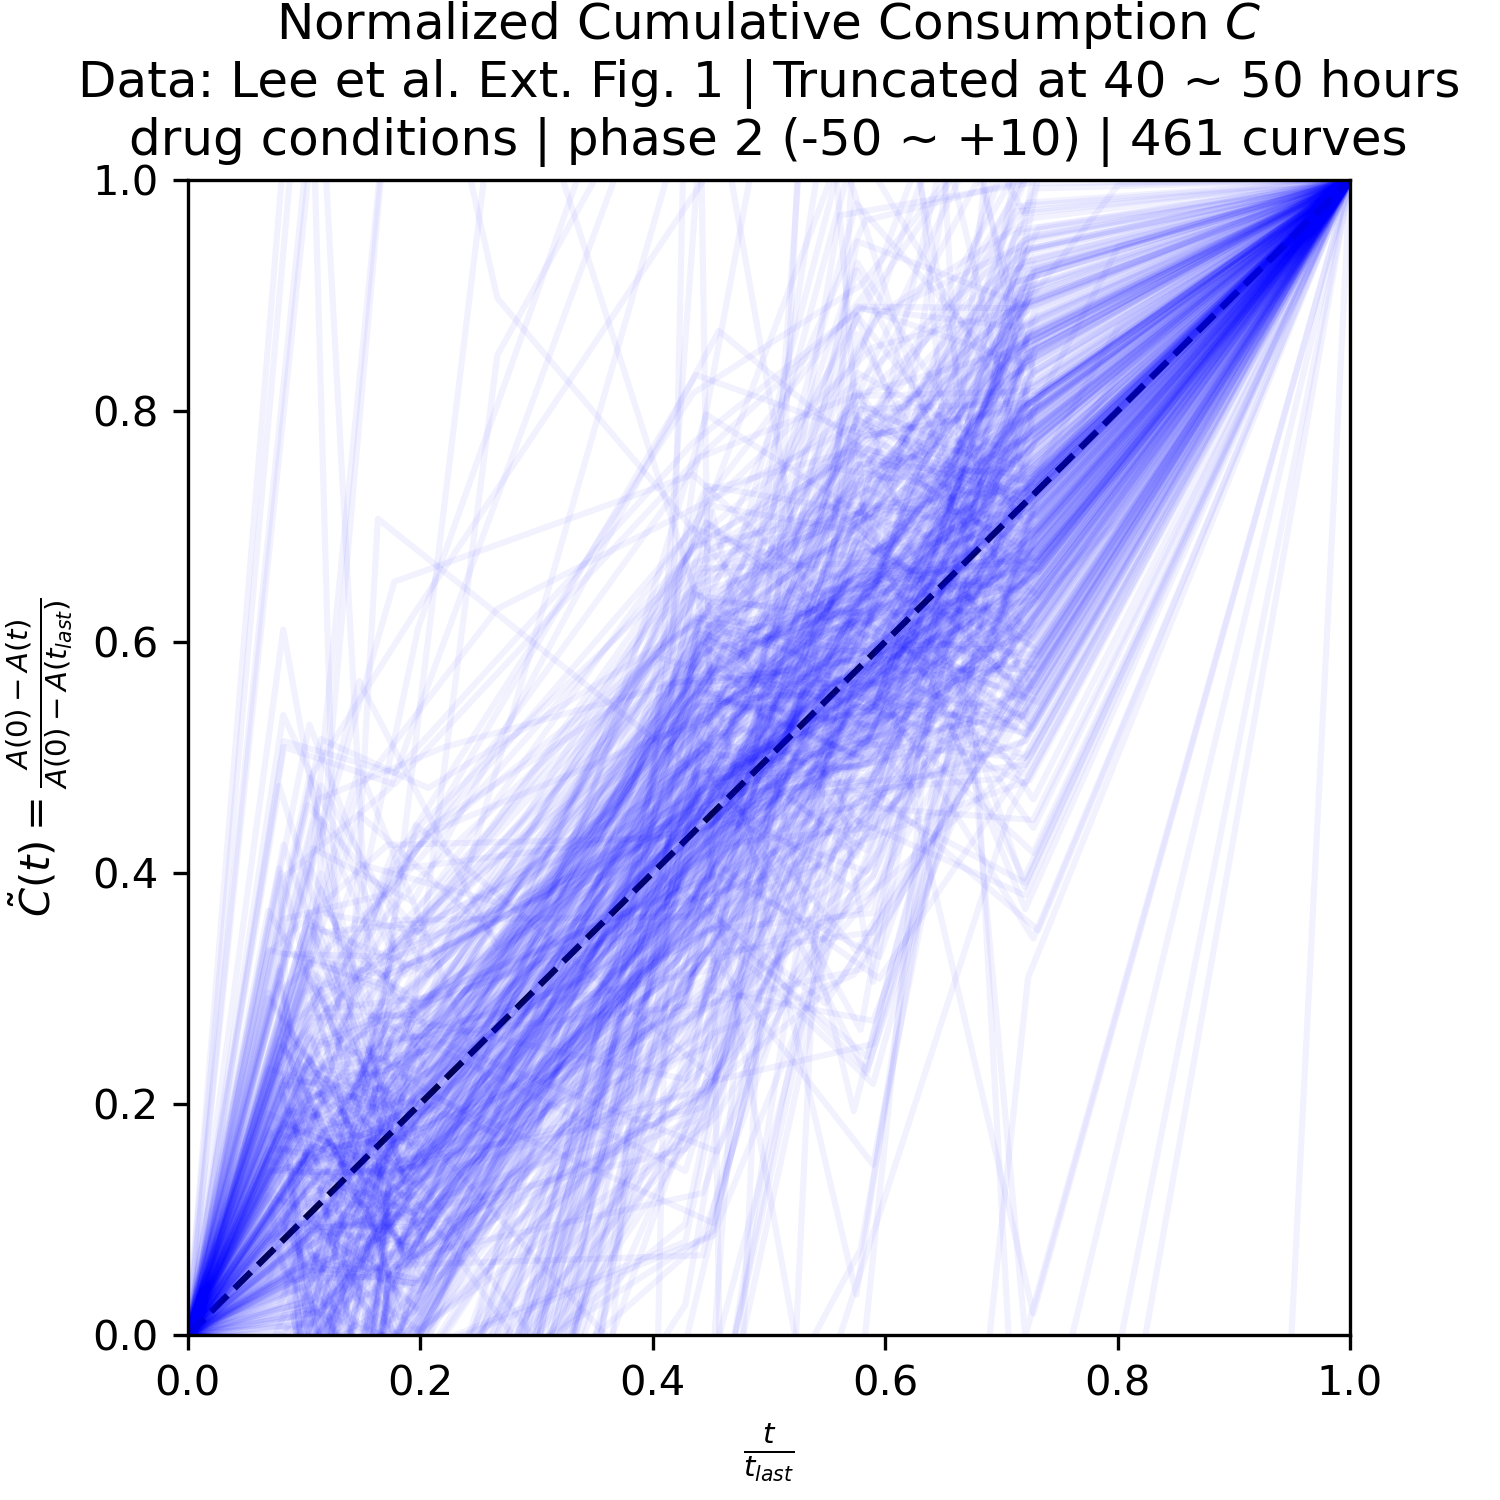
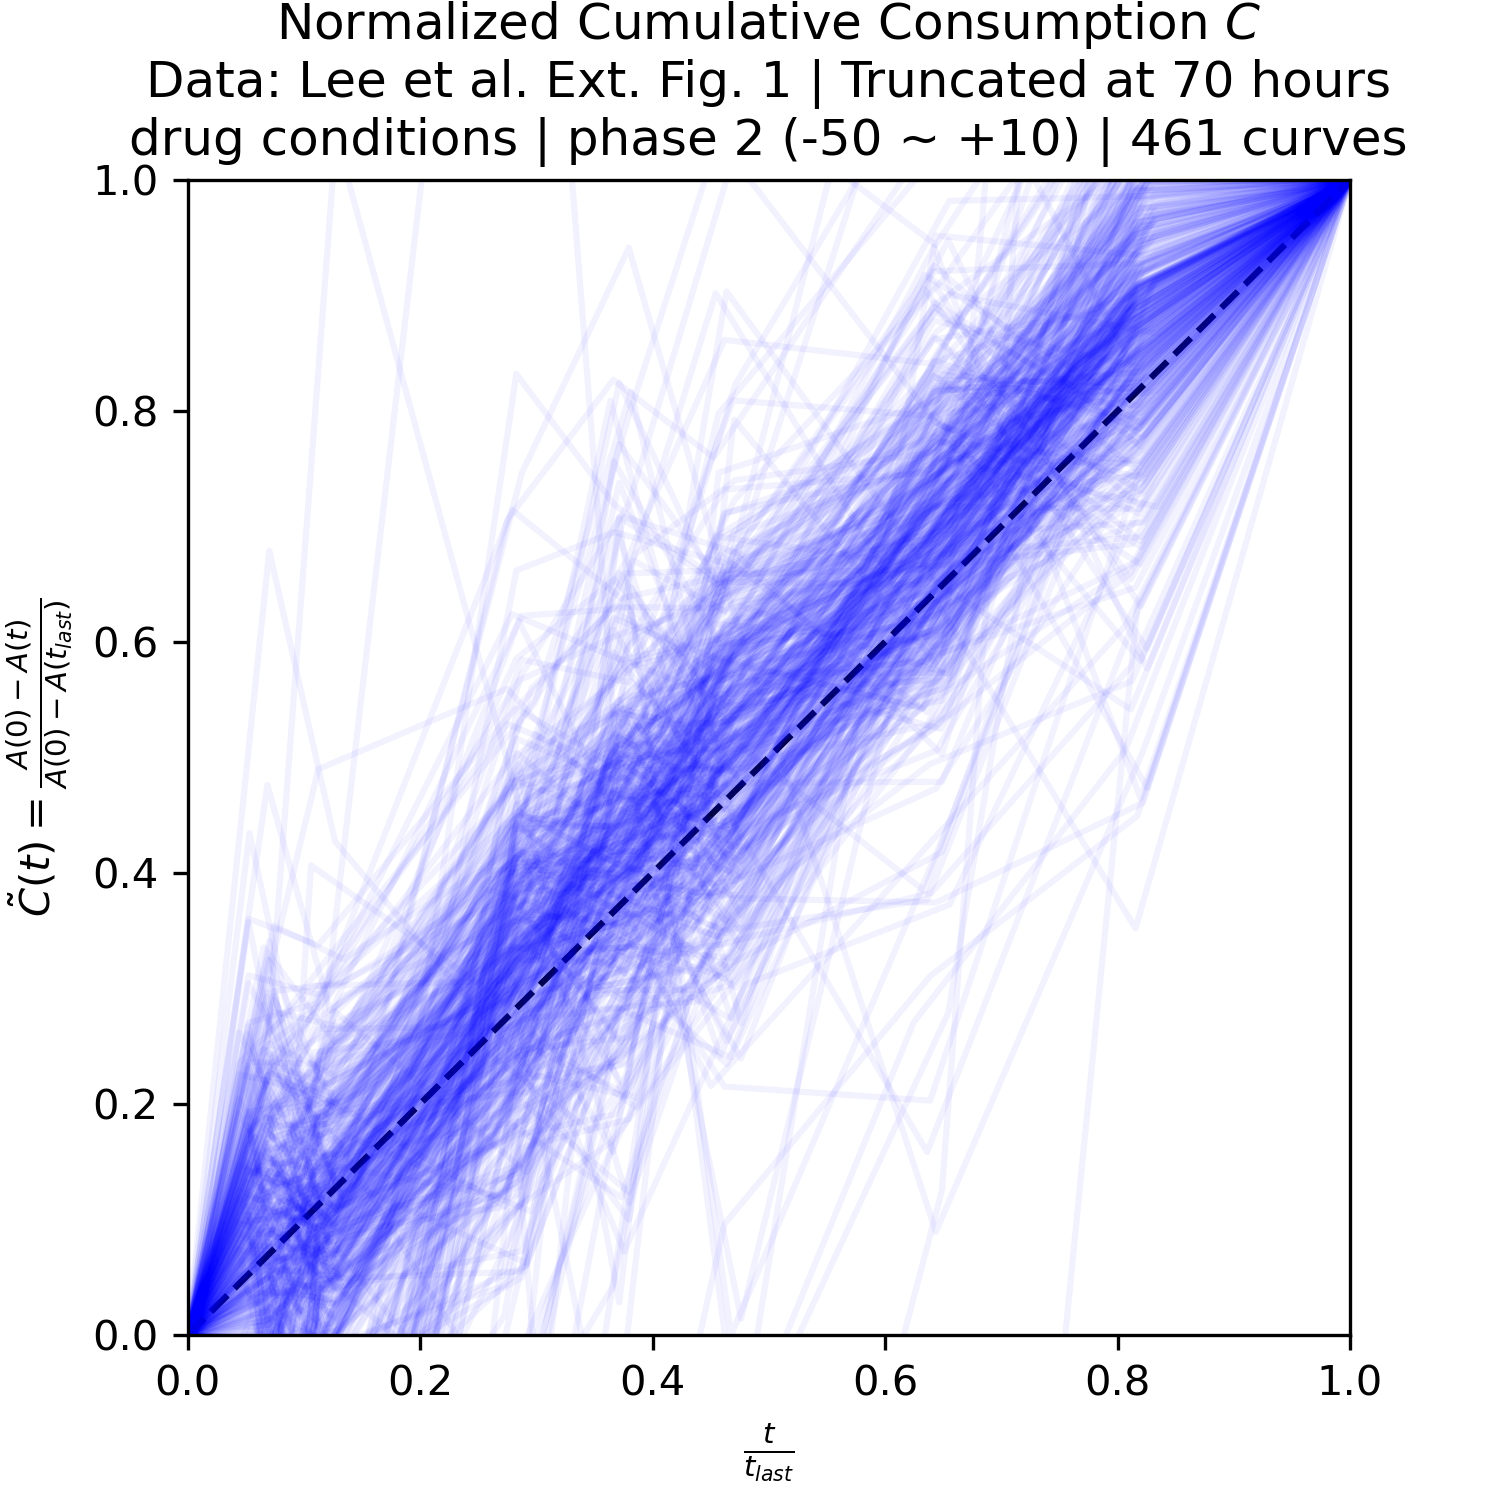
.

diff --git a/nitrate_drug_20260609.py b/nitrate_drug_20260609.py
@@ -4,6 +4,7 @@ import numpy as np
 import matplotlib.pyplot as plt
 import datetime
 from scipy.optimize import fsolve
+from matplotlib.lines import Line2D
 
 ids = ['4.2.batch1', '4.2.batch2', '4.2.batch3', '4.2.batch4', '4.2.batch5', '4.2.batch6']
 batch_colors = ['blue', 'green', 'orange', 'red', 'purple', 'cyan']
@@ -27,10 +28,21 @@ for id in ids:
 
 
 fig, axes = plt.subplots(2, 3, figsize=(15, 10))
-
+fig.suptitle(r'Nitrate concentration subtracted by grouped mean of $A(0)$, drug conditions | colour = nominal $A_{add}$', fontsize=16)
 for i in range(6):
-    id = ids[i]
     ax = axes[i // 3, i % 3]
+    ax.set_title(batch_labels[i])
+    ax.set_xlabel('Time (hr)') if i // 3 == 1 else None
+    ax.set_ylabel(r'$A(t) - \overline{A(0)}$') if i % 3 == 0 else None
+
+    if i == 0:
+        custom_lines = [Line2D([0], [0], color=colors[0]),
+                        Line2D([0], [0], color=colors[1]),
+                        Line2D([0], [0], color=colors[2]),
+                        Line2D([0], [0], color=colors[3])]
+        ax.legend(custom_lines, ['0.0 mM', '0.7 mM', '1.4 mM', '2.0 mM'], title=r'Nominal $A_{add}$')
+
+    id = ids[i]
     no3_conc_df = data_dict[id]['no3_conc'].loc[mask_chl_blank_dict[id]]
     meta_df = data_dict[id]['metadata'].loc[mask_chl_blank_dict[id]]
     
@@ -40,10 +52,118 @@ for i in range(6):
         mean_no3_value = no3_conc_df.loc[mask].iloc[:, 0].mean()
         no3_conc_norm_df.loc[mask] = no3_conc_df.loc[mask] - mean_no3_value
     
-    times = no3_conc_norm_df.columns.values
+    times = no3_conc_norm_df.columns.values.astype(float)
     for index in no3_conc_norm_df.index:
-        no3_conc = no3_conc_norm_df.loc[index].values
+        no3_conc = no3_conc_norm_df.loc[index].values.astype(float)
         no3_add = meta_df.loc[index, 'Nitrate_input']
         ax.plot(times, no3_conc, linestyle='-', color=colors[add_conc.index(no3_add)], alpha = 0.3)
+plt.savefig(f'plots/4.2.chl1_A(t)-A(0)_color_A_add_{datetime.datetime.now().strftime("%Y%m%d")}.png', dpi=300)
+plt.show()
 
+
+fig, axes = plt.subplots(2, 3, figsize=(15, 10))
+fig.suptitle(r'Nitrate concentration subtracted by grouped mean of $A(0)$, drug conditions'
+                + '\n' + r'colour = nominal $A_{add}$ | line = average over each $A_{add}$| band = $\pm$ SEM')    
+for i in range(6):
+    ax = axes[i // 3, i % 3]
+    ax.set_title(batch_labels[i])
+    ax.set_xlabel('Time (hr)') if i // 3 == 1 else None
+    ax.set_ylabel(r'$A(t) - \overline{A(0)}$') if i % 3 == 0 else None
+
+    if i == 0:
+        custom_lines = [Line2D([0], [0], color=colors[0]),
+                        Line2D([0], [0], color=colors[1]),
+                        Line2D([0], [0], color=colors[2]),
+                        Line2D([0], [0], color=colors[3])]
+        ax.legend(custom_lines, ['0.0 mM', '0.7 mM', '1.4 mM', '2.0 mM'], title=r'Nominal $A_{add}$')
+
+    id = ids[i]
+    no3_conc_df = data_dict[id]['no3_conc'].loc[mask_chl_blank_dict[id]]
+    meta_df = data_dict[id]['metadata'].loc[mask_chl_blank_dict[id]]
+    
+    no3_conc_norm_df = no3_conc_df
+    times = no3_conc_norm_df.columns.values.astype(float)
+    for no3_add in add_conc:
+        mask = (meta_df['Nitrate_input'] == no3_add)
+        mean_no3_value = no3_conc_df.loc[mask].iloc[:, 0].mean()
+        no3_conc_norm_df.loc[mask] = no3_conc_df.loc[mask] - mean_no3_value
+        mean_no3_conc_norm = no3_conc_norm_df.loc[mask].mean().values.astype(float)
+        sem_no3_conc_norm = no3_conc_norm_df.loc[mask].sem().values.astype(float)
+        
+        ax.plot(times, mean_no3_conc_norm, linestyle='-', color=colors[add_conc.index(no3_add)], alpha = 0.8)
+        ax.fill_between(times, mean_no3_conc_norm - sem_no3_conc_norm, mean_no3_conc_norm + sem_no3_conc_norm, color=colors[add_conc.index(no3_add)], alpha=0.2)
+plt.savefig(f'plots/4.2.chl1_A(t)-A(0)_color_A_add_line_band_{datetime.datetime.now().strftime("%Y%m%d")}.png', dpi=300)
+plt.show()
+    
+
+fig, axes = plt.subplots(2, 3, figsize=(15, 10))
+fig.suptitle(r'Nitrate concentration subtracted by grouped mean of $A(0)$, drug conditions | colour = nominal $I_{add}$', fontsize=16)
+for i in range(6):
+    ax = axes[i // 3, i % 3]
+    ax.set_title(batch_labels[i])
+    ax.set_xlabel('Time (hr)') if i // 3 == 1 else None
+    ax.set_ylabel(r'$A(t) - \overline{A(0)}$') if i % 3 == 0 else None
+
+    if i == 0:
+        custom_lines = [Line2D([0], [0], color=colors[0]),
+                        Line2D([0], [0], color=colors[1]),
+                        Line2D([0], [0], color=colors[2]),
+                        Line2D([0], [0], color=colors[3])]
+        ax.legend(custom_lines, ['0.0 mM', '0.7 mM', '1.4 mM', '2.0 mM'], title=r'Nominal $I_{add}$')
+
+    id = ids[i]
+    no3_conc_df = data_dict[id]['no3_conc'].loc[mask_chl_blank_dict[id]]
+    meta_df = data_dict[id]['metadata'].loc[mask_chl_blank_dict[id]]
+    
+    no3_conc_norm_df = no3_conc_df
+    for no3_add in add_conc:
+        mask = (meta_df['Nitrate_input'] == no3_add)
+        mean_no3_value = no3_conc_df.loc[mask].iloc[:, 0].mean()
+        no3_conc_norm_df.loc[mask] = no3_conc_df.loc[mask] - mean_no3_value
+    
+    times = no3_conc_norm_df.columns.values.astype(float)
+    for index in no3_conc_norm_df.index:
+        no3_conc = no3_conc_norm_df.loc[index].values.astype(float)
+        no2_add = meta_df.loc[index, 'Nitrite_input']
+        ax.plot(times, no3_conc, linestyle='-', color=colors[add_conc.index(no2_add)], alpha = 0.3)
+plt.savefig(f'plots/4.2.chl1_A(t)-A(0)_color_I_add_{datetime.datetime.now().strftime("%Y%m%d")}.png', dpi=300)
+plt.show()
+
+
+fig, axes = plt.subplots(2, 3, figsize=(15, 10))
+fig.suptitle(r'Nitrate concentration subtracted by grouped mean of $A(0)$, drug conditions'
+                + '\n' + r'colour = nominal $I_{add}$ | line = average over each $A_{add}$| band = $\pm$ SEM')    
+for i in range(6):
+    ax = axes[i // 3, i % 3]
+    ax.set_title(batch_labels[i])
+    ax.set_xlabel('Time (hr)') if i // 3 == 1 else None
+    ax.set_ylabel(r'$A(t) - \overline{A(0)}$') if i % 3 == 0 else None
+
+    if i == 0:
+        custom_lines = [Line2D([0], [0], color=colors[0]),
+                        Line2D([0], [0], color=colors[1]),
+                        Line2D([0], [0], color=colors[2]),
+                        Line2D([0], [0], color=colors[3])]
+        ax.legend(custom_lines, ['0.0 mM', '0.7 mM', '1.4 mM', '2.0 mM'], title=r'Nominal $I_{add}$')
+
+    id = ids[i]
+    no3_conc_df = data_dict[id]['no3_conc'].loc[mask_chl_blank_dict[id]]
+    meta_df = data_dict[id]['metadata'].loc[mask_chl_blank_dict[id]]
+    
+    no3_conc_norm_df = no3_conc_df
+    times = no3_conc_norm_df.columns.values.astype(float)
+    for no3_add in add_conc:
+        mask = (meta_df['Nitrate_input'] == no3_add)
+        mean_no3_value = no3_conc_df.loc[mask].iloc[:, 0].mean()
+        no3_conc_norm_df.loc[mask] = no3_conc_df.loc[mask] - mean_no3_value
+    
+    for no2_add in add_conc:
+        mask = (meta_df['Nitrite_input'] == no2_add)
+        mean_no3_conc_norm = no3_conc_norm_df.loc[mask].mean().values.astype(float)
+        sem_no3_conc_norm = no3_conc_norm_df.loc[mask].sem().values.astype(float)
+        
+        ax.plot(times, mean_no3_conc_norm, linestyle='-', color=colors[add_conc.index(no2_add)], alpha = 0.8)
+        ax.fill_between(times, mean_no3_conc_norm - sem_no3_conc_norm, mean_no3_conc_norm + sem_no3_conc_norm, color=colors[add_conc.index(no2_add)], alpha=0.2)
+
+plt.savefig(f'plots/4.2.chl1_A(t)-A(0)_color_I_add_line_band_{datetime.datetime.now().strftime("%Y%m%d")}.png', dpi=300)
 plt.show()

diff --git a/_old_codes_and_data/lee_et_al_ext_fig1_20260624.py b/_old_codes_and_data/lee_et_al_ext_fig1_20260624.py
@@ -23,8 +23,8 @@ for i in range(len(df_to_plot)):
     if time == 0 and i > 0:
         if no3_conc[-1] < no3_conc[0]:
             count += 1
-            no3_conc = no3_conc[:-3]
-            times = times[:-3]          # Exclude the last three time points
+            no3_conc = no3_conc[:-1]
+            times = times[:-1]          # Exclude the last time point
 
             no3_norm_cons = [(no3_conc[0] - no3) / (no3_conc[0] - no3_conc[-1]) for no3 in no3_conc]
             norm_time = [t / times[-1] for t in times]
@@ -35,7 +35,7 @@ for i in range(len(df_to_plot)):
     no3_conc.append(no3)
 print(f'Number of curves plotted: {count} out of {len(df_to_plot) // 10}')
 ax.set_title(r'Normalized Cumulative Consumption $\tilde{C}$'
-              + '\n' + 'Data: Lee et al. Ext. Fig. 1 | Truncated at 40 ~ 50 hours'
+              + '\n' + 'Data: Lee et al. Ext. Fig. 1 | Truncated at 70 hours'
               + '\n' + f'drug conditions | phase 2 (-50 ~ +10) | {count} curves')
 plt.savefig(f'plots/lee_etal_ext_fig1_chl_norm_cons_{datetime.datetime.now().strftime("%Y%m%d")}.png', dpi=300)
 plt.show()
